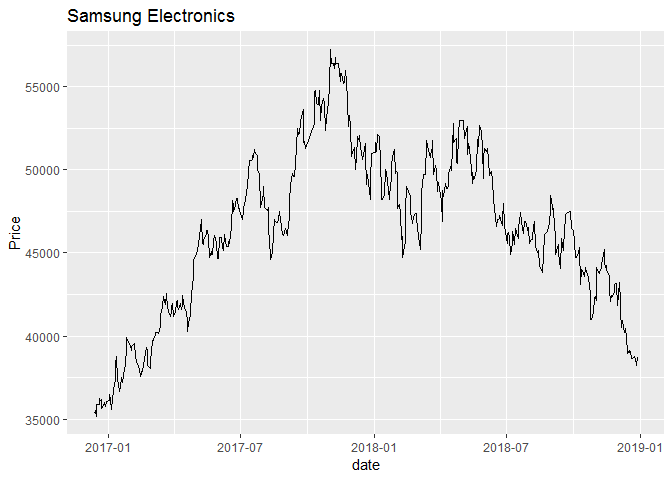
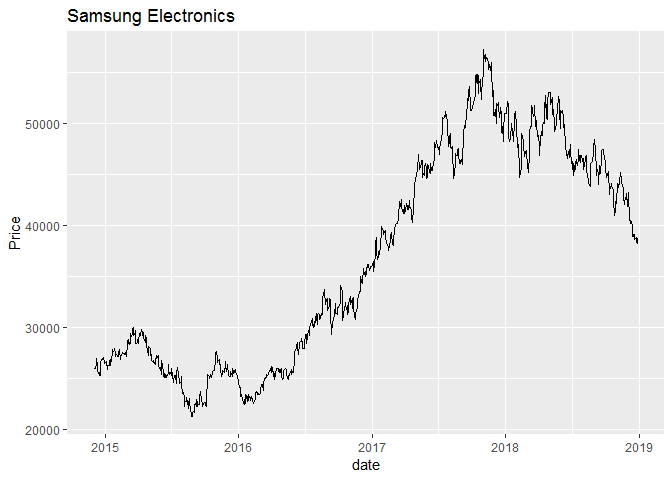
updates

diff --git a/Practice2/Adjusted_Stock_price.md b/Practice2/Adjusted_Stock_price.md
@@ -55,7 +55,7 @@ First, we read html and scrape all data from url.
 
 ``` r
 ticker = "005930"
-url = paste0("https://fchart.stock.naver.com/sise.nhn?symbol=",ticker,"&timeframe=day&count=500&requestType=0") # Using 'for loop' we can download multiple stock items' data 
+url = paste0("https://fchart.stock.naver.com/sise.nhn?symbol=",ticker,"&timeframe=day&count=1000&requestType=0") # Using 'for loop' we can download multiple stock items' data 
 
 # Read HTML
 data = GET(url) %>% read_html %>% html_nodes("item") %>% html_attr("data")
@@ -82,20 +82,20 @@ head(data)
 ```
 
     ##         X1    X2
-    ## 1 20161213 35320
-    ## 2 20161214 35540
-    ## 3 20161215 35180
-    ## 4 20161216 35860
-    ## 5 20161219 35900
-    ## 6 20161220 36240
+    ## 1 20141203 25960
+    ## 2 20141204 26000
+    ## 3 20141205 26040
+    ## 4 20141208 26380
+    ## 5 20141209 26980
+    ## 6 20141210 26340
 
 ``` r
 str(data)
 ```
 
-    ## 'data.frame':    500 obs. of  2 variables:
-    ##  $ X1: Factor w/ 500 levels "20161213","20161214",..: 1 2 3 4 5 6 7 8 9 10 ...
-    ##  $ X2: Factor w/ 353 levels "35320","35540",..: 1 2 3 4 5 6 7 8 9 10 ...
+    ## 'data.frame':    1000 obs. of  2 variables:
+    ##  $ X1: Factor w/ 1000 levels "20141203","20141204",..: 1 2 3 4 5 6 7 8 9 10 ...
+    ##  $ X2: Factor w/ 654 levels "25960","26000",..: 1 2 3 4 5 6 7 8 9 10 ...
 
 Data Cleansing
 --------------
@@ -127,12 +127,12 @@ head(data)
 ```
 
     ##         date Price
-    ## 1 2016-12-13 35320
-    ## 2 2016-12-14 35540
-    ## 3 2016-12-15 35180
-    ## 4 2016-12-16 35860
-    ## 5 2016-12-19 35900
-    ## 6 2016-12-20 36240
+    ## 1 2014-12-03 25960
+    ## 2 2014-12-04 26000
+    ## 3 2014-12-05 26040
+    ## 4 2014-12-08 26380
+    ## 5 2014-12-09 26980
+    ## 6 2014-12-10 26340
 
 ``` r
 ggplot(data, aes(date, Price)) + geom_line() + labs(title = "Samsung Electronics")
